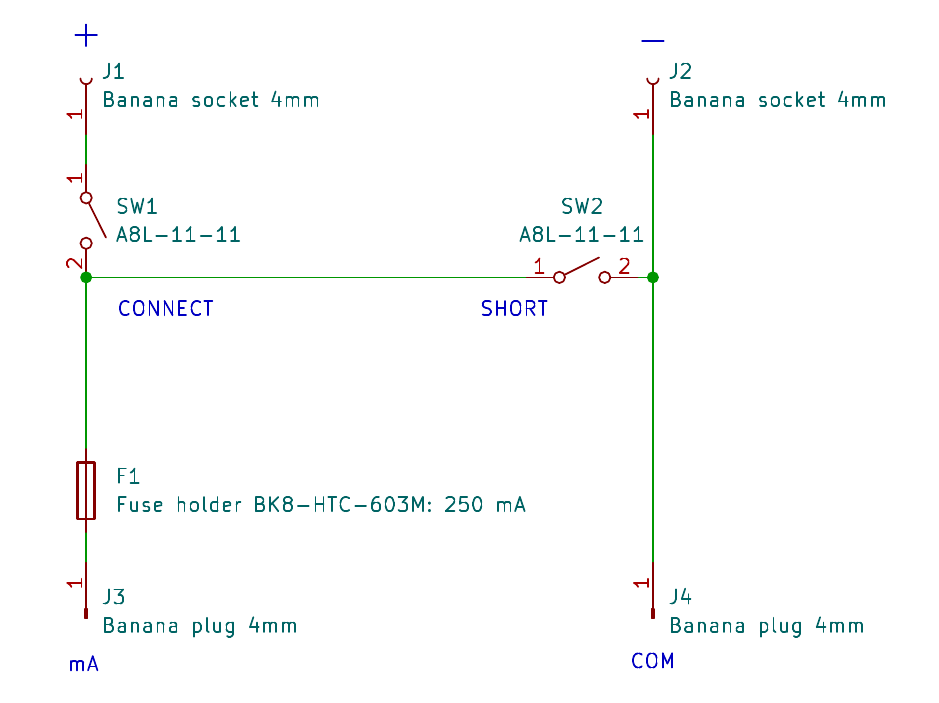
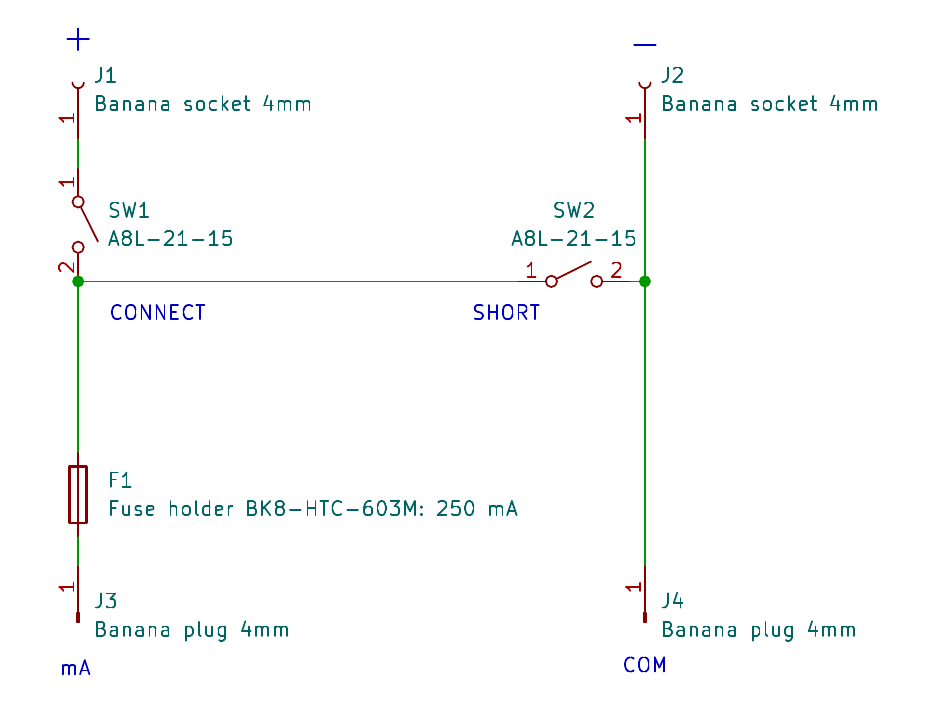
Add BOM

diff --git a/README.md b/README.md
@@ -8,6 +8,8 @@ This module connects to the "COM" and "mA" inputs of the Fluke 87V multimeter. I
 - Short the multimeter's internal current shunt.
 - Protect the multimeter using an external fuse.
 
+Partially parametrized via spreadsheet in FreeCAD project.
+
 ## Printing
 
 The enclosure was 3D printed using 0.2 mm layer height PETG filament.  
@@ -36,8 +38,15 @@ Threading for an M3 screw should be cut manually after printing.
 
 ## Bill of Materials (BOM)
 
-| Item No. | Description        | Quantity | Notes                   |
-|----------|--------------------|----------|--------------------------|
-| 1        |                    |          |                          |
-| 2        |                    |          |                          |
-| 3        |                    |          |                          |
+| Designator  | Description           | Value         | Qty | Farnell Code  | Note                        |
+|-------------|-----------------------|---------------|-----|---------------|-----------------------------|
+| F1          | Fuse holder           | BK8-HTC-603M  | 1   | 3769131       |                             |
+|             | Fast fuse             | 250 mA        | 1   | 3515934       |                             |
+| J1, J2      | Banana socket 4mm/M6  |               | 2   | 1698955       |                             |
+|             | Solder washer M6      |               | 2   | 2832547       |                             |
+|             | Star lock washer M6   |               | 2   |               |                             |
+| J3, J4      | Banana plug 4mm       | FK 1210 NI    | 2   | 3224621       |                             |
+|             | Solder washer M4      |               | 2   | 2832545       |                             |
+|             | Nylon lock nut M4     |               | 2   |               |                             |
+| SW1, SW2    | DPST switch           | A8L-21-15     | 2   | 2213918       | SPST won't fit mechanically |
+|             | Blade connector 4.8   |               | 4   |               |                             |
